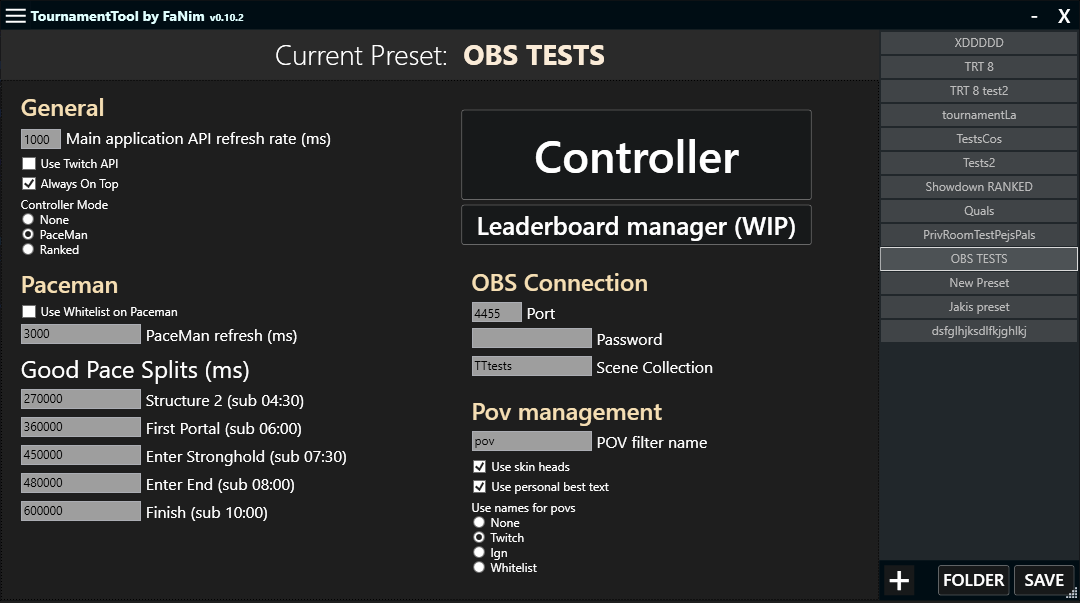
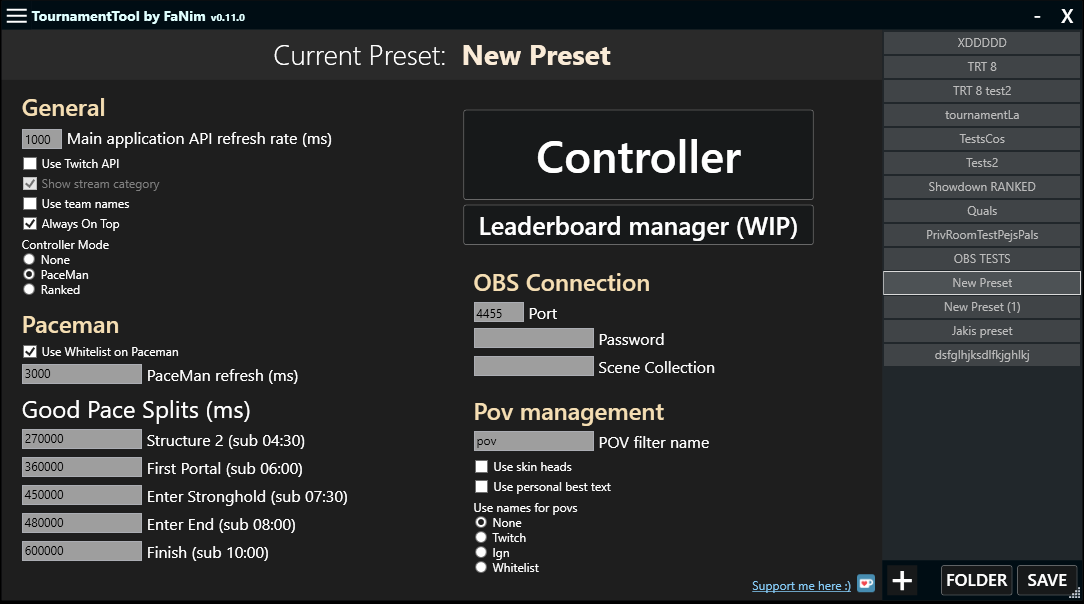
readme update for 0.11 update

diff --git a/README.md b/README.md
@@ -5,6 +5,9 @@
 Start app view as preset menu (view is WIP)
 ![Start app view as preset menu (view is WIP)](Images/PresetMenu.png)
 
+Whitelist menu view
+![Whitelist panel view](Images/Whitelist.png)
+
 Controller menu view with controller mode for Paceman (view is WIP)
 ![Controller menu view with controller mode for Paceman (view is WIP)](Images/ControllerMenu-Mode_Paceman.png)
 
@@ -24,7 +27,6 @@ Controller menu view with controller mode for Paceman (view is WIP)
 
 ## Planned Enhancements  
 
-- Whitelist import/export functionality.
 - A Built-in leaderboard for tracking player performance.
 - Support for displaying player statistics from MCSR Ranked and Paceman.
 - Automated processes for creating and managing POVs in OBS.
